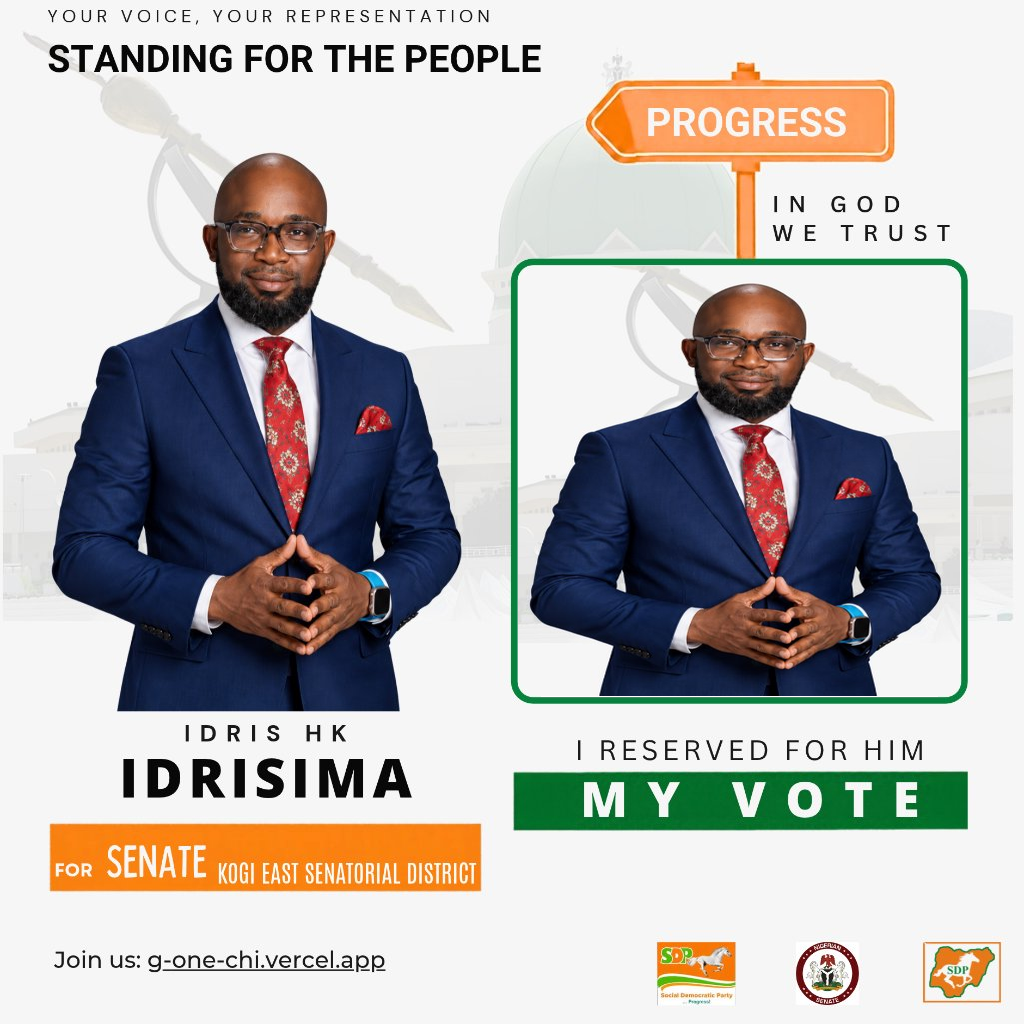
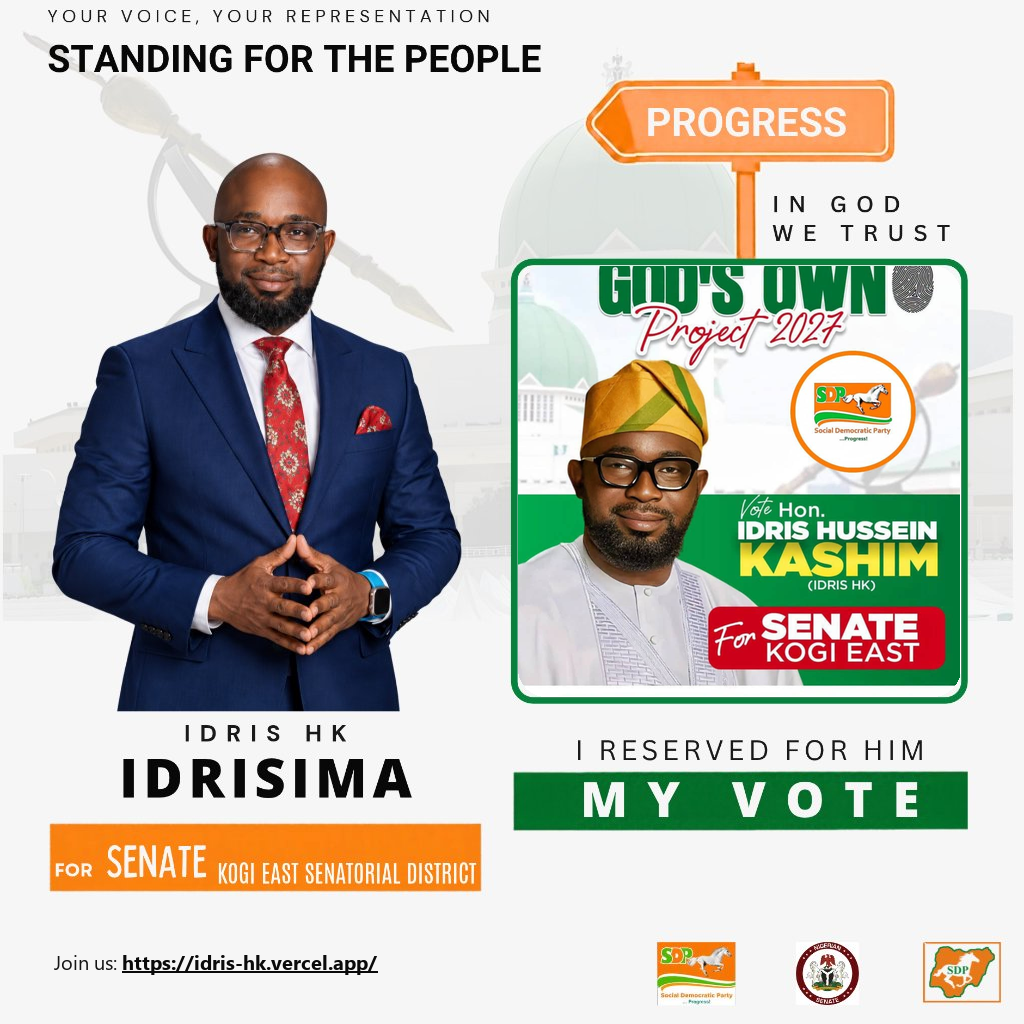
Update campaign flyer URL to https://idris-hk.vercel.app/

Changed region(s): [[0.5, 0.25, 0.9375, 0.6875], [0.0625, 0.9375, 0.375, 0.9688]]

diff --git a/data.py b/data.py
@@ -17,7 +17,7 @@ IDRISIMA_CANDIDATE = {
     "subSlogan": "Together For A Better Tomorrow · In God We Trust",
     "secondarySlogan": "Standing For The People · Your Voice, Your Representation",
     "callToAction": "I Reserved For Him My Vote",
-    "website": "https://g-one-chi.vercel.app",
+    "website": "https://idris-hk.vercel.app",
     "photo": "/static/idris_kashim_cap.jpg",
     "portraitSuit": "/static/idris_kashim_suit.jpg",
     "portraitAgbada": "/static/idris_kashim_agbada.jpg",
